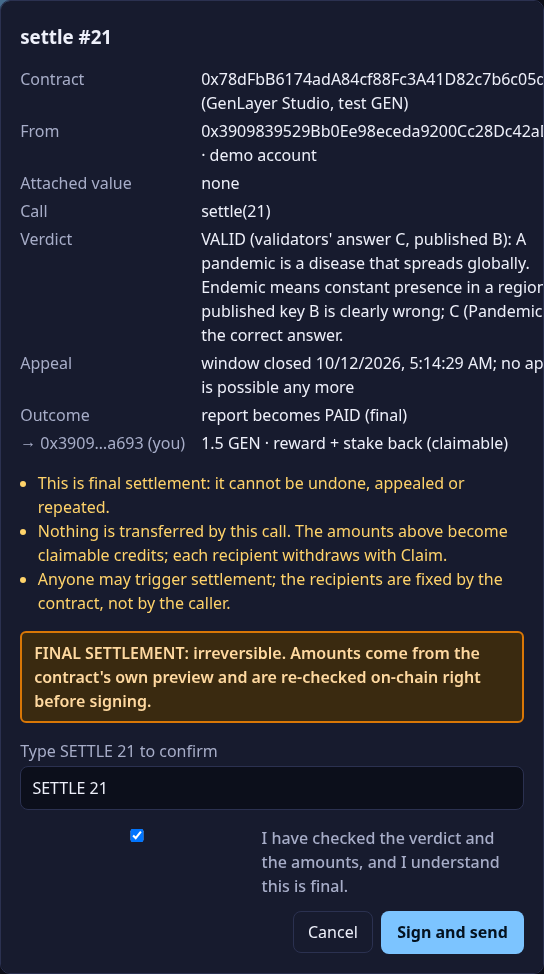
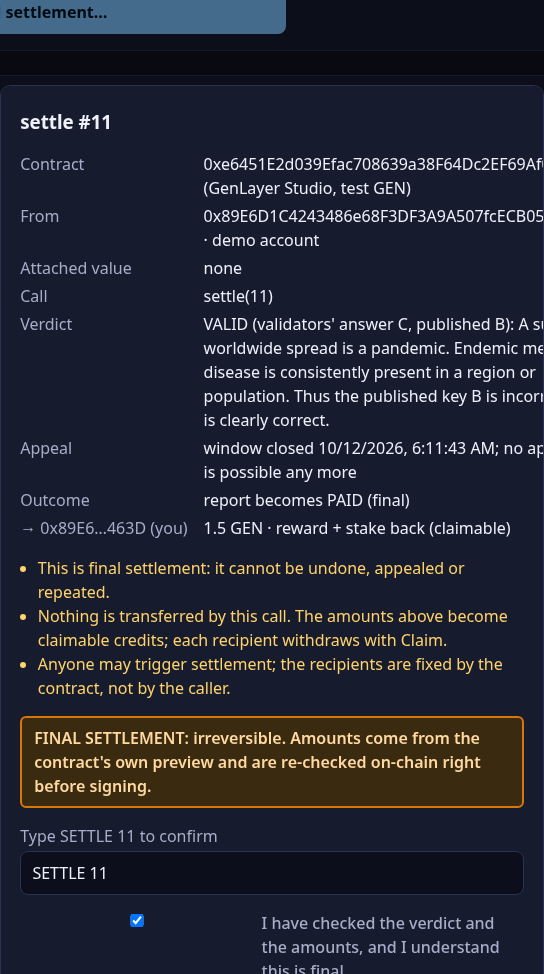
Browser e2e on v0.3.0: dialog gating, concurrent-settle abort (nothing sent), settle, claim; cleanup of aborted attempts

diff --git a/evidence/v0.3-browser-e2e.md b/evidence/v0.3-browser-e2e.md
@@ -1,0 +1,39 @@
+# ErrataPool v0.3.0: browser end-to-end run of the final-settlement confirmation
+
+Run with `scripts/e2e-browser-v03.mjs`: headless Chrome drives the built web app (`docs/`, served with `vite preview`) against contract [`0xe6451E2d039Efac708639a38F64Dc2EF69Af0232`](https://explorer-studio.genlayer.com/address/0xe6451E2d039Efac708639a38F64Dc2EF69Af0232) on GenLayer Studio, 2026-10-11 22:11-22:15 UTC. The app uses a fresh demo burner account `0x89E6D1C4243486e68F3DF3A9A507fcECB05C463D` funded with test GEN. The pool owner is the deployer, signing from Node.
+
+## Gating of the final-settlement dialog (report #11)
+
+| state of the dialog | Sign button |
+|---|---|
+| nothing typed | disabled |
+| `SETTLE 12` typed (wrong id) | disabled |
+| `SETTLE 11` typed, acknowledgement not ticked | disabled |
+| `SETTLE 11` typed **and** acknowledgement ticked | enabled |
+
+The dialog showed (verbatim, abridged): *settle #11 · Contract 0xe645…0232 (GenLayer Studio, test GEN) · From 0x89E6…463D · Call settle(11) · Verdict VALID (validators' answer C, published B): A sudden worldwide spread is a pandemic… · Appeal: window closed, no appeal is possible any more · Outcome: report becomes PAID (final) · → 0x89E6…463D (you) 1.5 GEN · reward + stake back (claimable) · "This is final settlement: it cannot be undone, appealed or repeated." · "Nothing is transferred by this call…" · "Anyone may trigger settlement; the recipients are fixed by the contract, not by the caller."* Screenshot: [media/v0.3-settle-confirm.png](../media/v0.3-settle-confirm.png).
+
+## Transactions
+
+| # | who | step | result | tx |
+|---|---|---|---|---|
+| 1 | owner (Node) | create_pool #6 "MMLU · virology (test split) · v0.3 demo" (8 GEN, reward 1, min stake 0.2, window 0) | SUCCESS | [`0x8aa340cc…3beb`](https://explorer-studio.genlayer.com/tx/0x8aa340cc3b7d930c25a81b953c7d8e8d7d43ee5c27cd3d02622e65305c893beb) |
+| 2 | burner (app) | file_report item 77 → report #11 (confirmation dialog accepted) | ok | [`0xf145fc69…2213`](https://explorer-studio.genlayer.com/tx/0xf145fc69e42f7f42bc0d6009fa23cb1e3033d41671f8af459ff87d7c75372213) |
+| 3 | burner (app) | adjudicate #11 | UPHELD | [`0xf79fff4a…c840`](https://explorer-studio.genlayer.com/tx/0xf79fff4a58468ad8b1cb0e99a402eeb0aee3268c0e240754e2fe9fb893a5c840) |
+| 4 | burner (app) | file_report item 25 → report #12 (two gateway failures first: nothing sent, retried) | ok | [`0x8bff7c4a…ef54`](https://explorer-studio.genlayer.com/tx/0x8bff7c4a656918509669e45b27255dcbe52ca57e393bcef72b21d0a5a719ef54) |
+| 5 | burner (app) | adjudicate #12 | REJECTED | [`0xe7568862…17de`](https://explorer-studio.genlayer.com/tx/0xe756886285a5ba6c6a621489229057f9d7630ebb1aaabb233cd02cfca06217de) |
+| 6 | owner (Node) | settle #11 from another client **while the burner's final-settlement dialog for #11 is open** | PAID | [`0x354be193…5df6`](https://explorer-studio.genlayer.com/tx/0x354be19301c5e45e74b16c82afa84a0b3133aa1d7c6720e549ce059f41525df6) |
+| 7 | burner (app) | confirm the now-stale settle #11 dialog | **not sent**: "the on-chain state changed while the dialog was open (report is PAID…)" | — |
+| 8 | burner (app) | settle #12 through the full dialog (typed `SETTLE 12` + acknowledgement) | FORFEITED | [`0x96702525…07c4`](https://explorer-studio.genlayer.com/tx/0x967025257d5e4e265d8abaedc5f6b034b0333864e27671944f5635b4ce7107c4) |
+| 9 | burner (app) | claim 1.5 GEN (credit of #11, settled by the owner's client but credited to the reporter) | ok → 1500000000000000000 | [`0xb8c1ba53…58f2`](https://explorer-studio.genlayer.com/tx/0xb8c1ba53e1f9fe5abe5ef23d54c695378bc5035b79d2f845634c564f3e0b58f2) |
+
+## What this demonstrates
+
+* **Race protection.** While the burner's dialog for #11 was open, the owner settled #11 from another client. The burner then confirmed. The app re-read `get_report` and `preview_settle` right before signing, saw that the state had changed, and **sent nothing**. The harness then checked the app log and found no settle transaction from the burner.
+* **The preview is what executes.** The amounts in the dialog come from the contract's `preview_settle` view. That view uses the same `_settle_plan` that `settle` runs. Report #12 settled as FORFEITED exactly as previewed.
+* **Fail closed on RPC errors.** During the run, Studio's gateway twice answered without CORS headers. Once this hit `eth_sendRawTransaction`, and nothing was filed, so the harness retried. Once it hit the preview read, and the app logged *"Not sent: could not read the contract to prepare settle #12 … Nothing was signed; try again."* No dialog opened on stale data.
+* **Pull payment.** #11 was settled by the owner's client, but the credit went to the reporter, the burner. The burner's Claim button showed the amount and its own claim dialog, and the claim transferred 1.5 GEN.
+
+Three earlier attempts of this script (pools #3-#5) were cut short by the same Studio and Hugging Face infrastructure hiccups: a CORS-less gateway answer, and a 503 from the item host, which correctly reverted adjudication and left the report PENDING. They are recorded in `deployments/studionet.json` under `e2e_browser_aborted`. Their leftover reports #6-#9 were settled and pools #3-#5 closed afterwards. Report #10 is still PENDING and becomes recoverable by anyone at its deadline.
+
+Full harness output: `artifacts/e2e-browser-v03.txt` (not committed; the essential lines are reproduced above). App screenshot: [media/v0.3-e2e.png](../media/v0.3-e2e.png).
